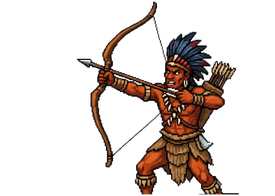
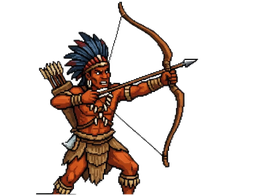
Fix archer facing, player throw follow-through staleness, rock visibility
Three issues reported after the v7.3 animation pass went live:

- Archer faced right and walked toward the pier backwards. All four other
  characters' source clips happened to face left already; archer's didn't,
  and it was missed at ship time. Fixed by flipping every frame in his set
  horizontally (offline, same precedent as the original rockthrower.png
  facing fix), with anchorX mirrored (275-180=95) to match -- walk's own
  center-x/bottom-y anchor is symmetric under a flip so it needed no change.

- The player's spear-throw follow-through read as the figure getting
  stuck. FLIGHT held one frozen dramatic lunge pose for the state's whole
  duration, which is however long the real spear's physics flight takes
  (often well over a second) -- much more noticeable than the old
  always-the-idle-pose behavior it replaced, since a frozen lunge draws
  the eye in a way a frozen neutral stance doesn't. Now the lunge only
  holds for a short beat (FLIGHT_POSE_TICKS=10) via a new sp.flightTicks
  counter, then falls through to the same idle-bucket sprite used before
  this feature existed for the rest of the flight.

- Rockthrower's (and prospector's) thrown projectile is a bare 3x3 square
  with no motion cue, unlike the vinegar bottle and archer's arrow, which
  already had a fading trail. At speed and against the new, busier,
  larger character art it reads as a single flickering dot -- easy to
  lose entirely, reported as "the rocks disappear". Gave both the same
[…]

diff --git a/claimjumper/index.html b/claimjumper/index.html
@@ -187,11 +187,19 @@ const MINER_ANIM_SPEC = {
     // reuses the loop's own resting point (already mid-recovery, about to
     // draw again) rather than an idle pose that doesn't exist in the
     // source footage.
+    // v7.3.1: unlike the other four, archer's source clip faced RIGHT (all
+    // the others happened to face left already) -- missed at ship time, so
+    // he drew facing away from the player and walked toward the pier
+    // backwards. Fixed by flipping every frame in this set horizontally
+    // (offline, same precedent as the original rockthrower.png facing fix
+    // from before the animation pass), not with a runtime ctx.scale --
+    // walk's own center-x/bottom-y anchor is symmetric under a flip so it
+    // needed no change, but anchorX here is mirrored (275-180=95) to match.
     walk: ['walk1.png','walk2.png','walk3.png','walk4.png','walk5.png','walk6.png','walk7.png','walk8.png'],
     stand: ['stand.png'],
     wind: ['wind1.png','wind2.png','wind3.png','wind4.png','wind5.png'],
     release: ['release1.png','release2.png','release3.png','release4.png','release5.png','release6.png','release7.png','release8.png'],
-    anchorX: 180, anchorY: 194,
+    anchorX: 95, anchorY: 194,
   },
 };
 (function loadMinerAnim(){
@@ -884,7 +892,7 @@ function fire(power){
   sp.x = G.playerX+G.shoveX+4; sp.y = G.obsY-2;
   sp.vx = Math.cos(a*D2R)*9; sp.vy = Math.sin(a*D2R)*9;
   sp.uw = 0; sp.splashed=false; sp.uwRange=range; sp.maxDepth=depth;
-  sp.live=true; sp.recov=recov; sp.recovTotal=recov; sp.state='FLIGHT';
+  sp.live=true; sp.recov=recov; sp.recovTotal=recov; sp.state='FLIGHT'; sp.flightTicks=0;
 }
 function endFlight(x,y,stick,isMiss){
   const sp = G.sp;
@@ -1322,7 +1330,7 @@ function updatePlay(){
 
   G.playerMoving = updateMovement();
   updateThrow(dt);
-  if (G.sp.live) updateSpearFlight();
+  if (G.sp.live) { G.sp.flightTicks = (G.sp.flightTicks||0) + 1; updateSpearFlight(); }
   else if (G.sp.state==='RECOVERING'){
     G.sp.recov -= 1;
     if (G.sp.recov<=0){ G.sp.state='IDLE'; G.sp.charge=0; }
@@ -1665,7 +1673,7 @@ function drawPlatform(oy){
 // player's CONDITION (GDD §6.1) -- the in-world damage feedback,
 // separate from the v4.1 HUD hearts below (which replaced the old
 // close-up face portrait; this in-scene body damage stays as-is).
-function drawFigure(ox, oy, braced, moving, aimAngle, spState, chargeK, recovK){
+function drawFigure(ox, oy, braced, moving, aimAngle, spState, chargeK, recovK, flightTicks){
   // v3.0: sprite-backed figure for the common IDLE-aiming pose (not braced,
   // not moving, not charging/thrown). COCKED/FLIGHT/RECOVERING and moving/
   // braced states keep the v2 procedural body -- those need poses this
@@ -1710,8 +1718,19 @@ function drawFigure(ox, oy, braced, moving, aimAngle, spState, chargeK, recovK){
   // only covers COCKED/FLIGHT/RECOVERING (IDLE/MOVING keep the buckets
   // untouched) and why one clip's baked angle is close enough to this
   // system's shallowest bucket to reuse its same +-20deg correction.
+  // v7.3.1: FLIGHT only shows the lunge/follow-through for a short beat
+  // (FLIGHT_POSE_TICKS) rather than for the state's whole duration. FLIGHT
+  // lasts as long as the real spear's physics flight does (often well over
+  // a second), and holding one dramatic frozen pose that entire time read
+  // as the figure getting stuck -- worse than the old always-the-idle-pose
+  // behavior it replaced, since a frozen lunge draws the eye in a way a
+  // frozen neutral stance doesn't. Past that beat this falls through to
+  // the same idle-bucket sprite used before this feature existed, the same
+  // graceful degradation every other path below already relies on.
+  const FLIGHT_POSE_TICKS = 10;
+  const showFlightPose = spState==='FLIGHT' && (flightTicks||0) < FLIGHT_POSE_TICKS;
   if (spriteEligible && PLAYER_THROW_ANIM.ready &&
-      (spState==='COCKED' || spState==='FLIGHT' || spState==='RECOVERING')){
+      (spState==='COCKED' || showFlightPose || spState==='RECOVERING')){
     let frames, idx;
     if (spState==='COCKED'){
       frames = PLAYER_THROW_ANIM.wind;
@@ -2445,7 +2464,7 @@ function drawPlay(){
   const braced = !!keys['KeyB'];
   const sp = G.sp;
   const recovK = (sp.state==='RECOVERING' && sp.recovTotal) ? 1-(sp.recov/sp.recovTotal) : 0;
-  drawFigure(ox, oy, braced, G.playerMoving, sp.angle, sp.state, sp.charge, recovK);
+  drawFigure(ox, oy, braced, G.playerMoving, sp.angle, sp.state, sp.charge, recovK, sp.flightTicks||0);
 
   const buffA = G.buffsActive[0] ? G.buffsActive[0].key : null;
   const buffB = G.buffsActive[1] ? G.buffsActive[1].key : null;
@@ -2529,8 +2548,18 @@ function drawPlay(){
       ctx.beginPath(); ctx.moveTo(r.x-r.vx*1.2,r.y-r.vy*1.2); ctx.lineTo(r.x+r.vx*0.6,r.y+r.vy*0.6); ctx.stroke();
     } else if (r.skin==='prospector'){
       // v7 §1.4: gem/nugget is flavor only -- same hit as a plain rock.
+      // v7.3.1: added the same fading motion-trail vinegar/archer already
+      // had -- a bare 3x3 square with no trail reads as a single flickering
+      // dot at 30fps once it's moving fast, easy to lose track of entirely
+      // (reported as "the rocks disappear") against the new, busier,
+      // larger character art. Plain rockthrower rocks below get the same
+      // fix, for the same reason.
+      ctx.strokeStyle='rgba(232,210,74,0.4)'; ctx.lineWidth=1.2;
+      ctx.beginPath(); ctx.moveTo(r.x-r.vx*2, r.y-r.vy*2); ctx.lineTo(r.x,r.y); ctx.stroke();
       ctx.fillStyle='#e8d24a'; ctx.fillRect(r.x-1.5,r.y-1.5,3,3);
     } else {
+      ctx.strokeStyle='rgba(90,95,102,0.4)'; ctx.lineWidth=1.2;
+      ctx.beginPath(); ctx.moveTo(r.x-r.vx*2, r.y-r.vy*2); ctx.lineTo(r.x,r.y); ctx.stroke();
       ctx.fillStyle='#5a5f66'; ctx.fillRect(r.x-1.5,r.y-1.5,3,3);
     }
   }
